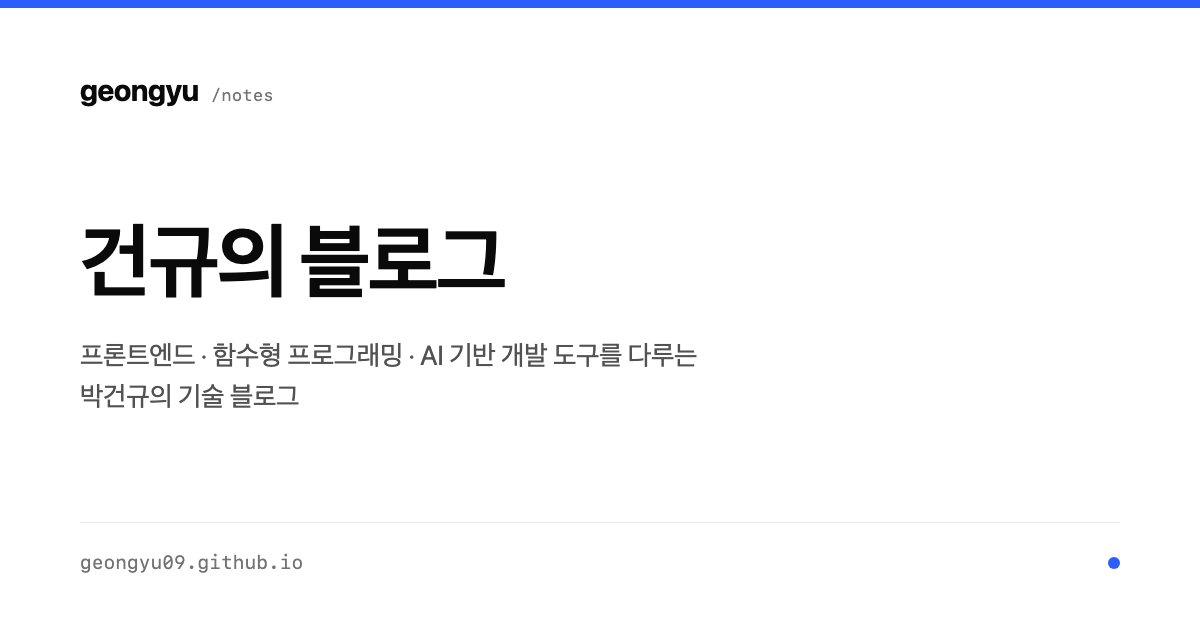
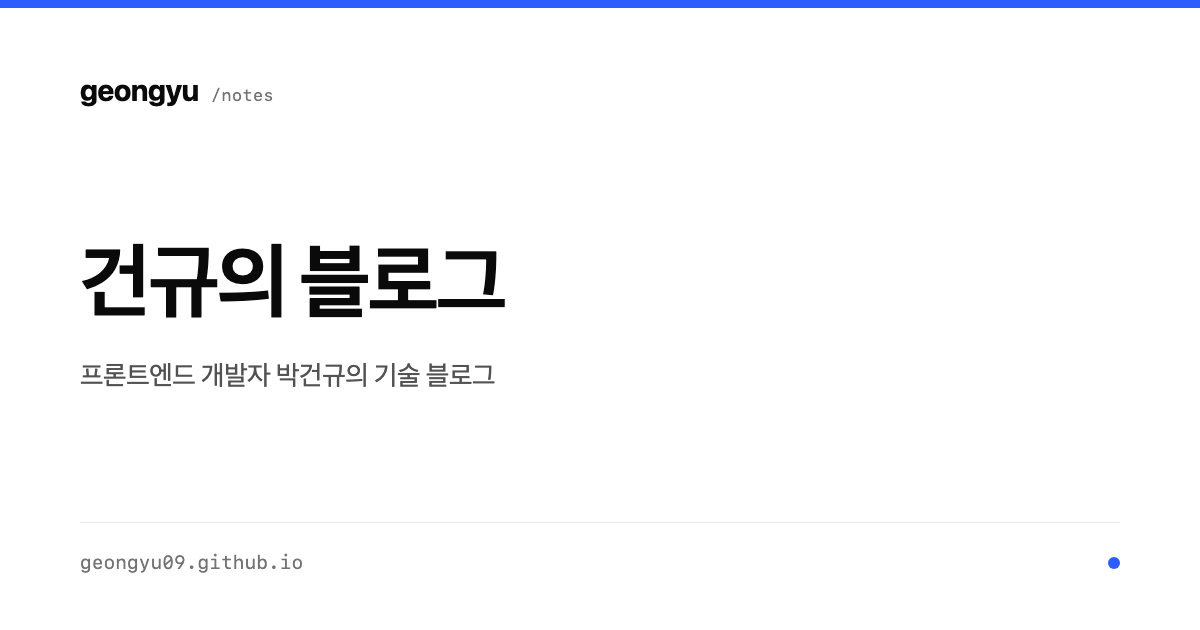
fix: 사이트 설명 문구 간결하게 수정
사이트 설명을 '프론트엔드 개발자 박건규의 기술 블로그입니다.'로
줄이고, 문구가 반영된 OG 이미지와 RSS 피드를 재생성하였습니다.

Changed region(s): [[0.0617, 0.3619, 0.4317, 0.5127], [0.0617, 0.5429, 0.5858, 0.6635]]

diff --git a/src/constants/site/index.ts b/src/constants/site/index.ts
@@ -1,8 +1,7 @@
 const SITE = {
   URL: 'https://geongyu09.github.io',
   TITLE: '건규의 블로그',
-  DESCRIPTION:
-    '프론트엔드·함수형 프로그래밍·AI 기반 개발 도구를 다루는 박건규의 기술 블로그입니다.',
+  DESCRIPTION: '프론트엔드 개발자 박건규의 기술 블로그입니다.',
   OG_IMAGE: '/assets/og-image.png',
   AUTHOR: {
     name: '박건규',
